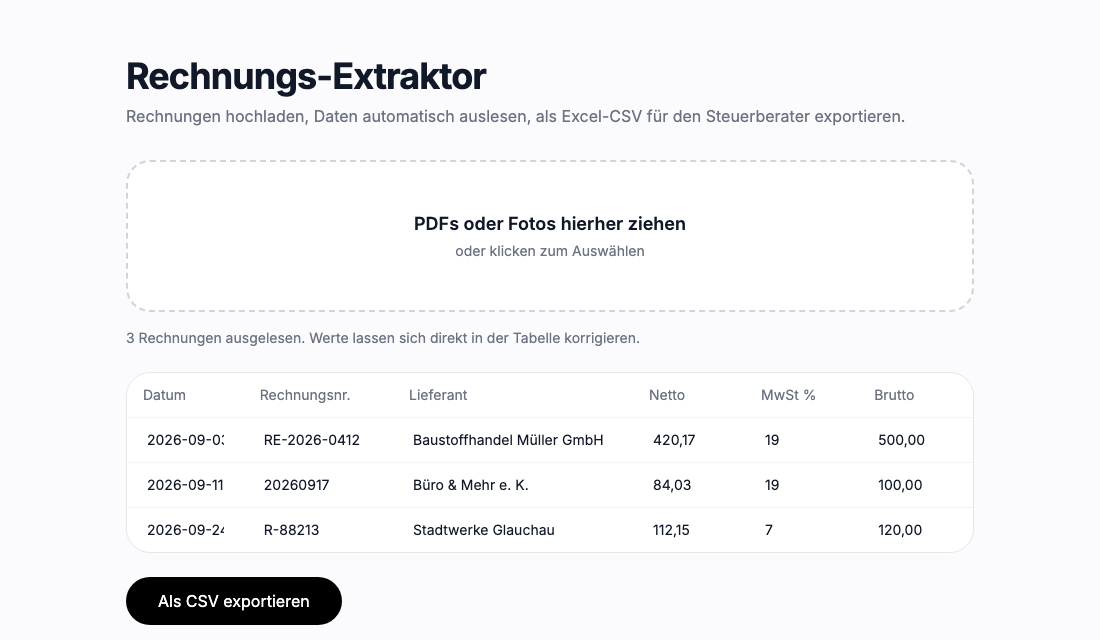
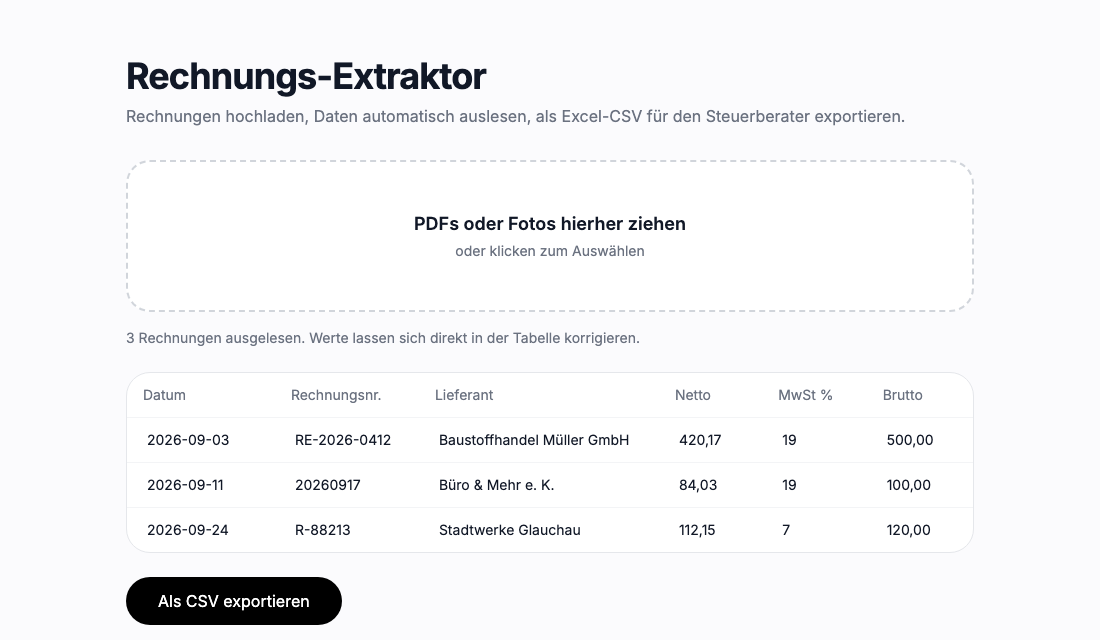
Add Rechnungs-Extraktor feature section to landing page

diff --git a/index.html b/index.html
@@ -19,6 +19,7 @@
             <span class="text-lg font-semibold tracking-tight">Patrick Heßmann</span>
             <div class="space-x-3 sm:space-x-6 text-sm font-medium text-gray-600">
                 <a href="#services" class="hover:text-black transition-colors">Leistungen</a>
+                <a href="#extraktor" class="hover:text-black transition-colors">Rechnungs-Extraktor</a>
                 <a href="#portfolio" class="hover:text-black transition-colors">Projekte</a>
                 <a href="#contact" class="bg-black text-white px-3 py-1 rounded-full hover:bg-gray-800 transition-all">Kontakt</a>
             </div>
@@ -72,6 +73,55 @@
         </div>
     </section>
 
+    <!-- Featured Product: Rechnungs-Extraktor -->
+    <section id="extraktor" class="py-24 bg-black text-white">
+        <div class="max-w-5xl mx-auto px-6">
+            <div class="text-center mb-14">
+                <span class="inline-block text-xs font-semibold uppercase tracking-widest text-gray-400 mb-4">Neu: Fertige Software</span>
+                <h2 class="text-4xl md:text-5xl font-bold tracking-tight mb-5">Schluss mit Belege abtippen.</h2>
+                <p class="text-xl text-gray-400 max-w-2xl mx-auto leading-relaxed">
+                    Der Rechnungs-Extraktor liest Rechnungen per KI aus und macht daraus eine fertige Excel-Liste für deinen Steuerberater.
+                </p>
+            </div>
+
+            <div class="rounded-3xl overflow-hidden border border-white/10 shadow-2xl shadow-white/5 mb-14">
+                <img src="assets/rechnungs-extraktor.png" alt="Rechnungs-Extraktor: ausgelesene Rechnungen als Tabelle mit Export-Button" loading="lazy" class="w-full h-auto">
+            </div>
+
+            <div class="grid md:grid-cols-3 gap-6 mb-14">
+                <div class="p-7 rounded-3xl bg-white/5 border border-white/10">
+                    <div class="text-sm font-semibold text-gray-400 mb-3">1</div>
+                    <h3 class="text-lg font-semibold mb-2">Hochladen</h3>
+                    <p class="text-gray-400 leading-relaxed">PDFs oder Fotos von Rechnungen ins Fenster ziehen, auch viele auf einmal.</p>
+                </div>
+                <div class="p-7 rounded-3xl bg-white/5 border border-white/10">
+                    <div class="text-sm font-semibold text-gray-400 mb-3">2</div>
+                    <h3 class="text-lg font-semibold mb-2">Prüfen</h3>
+                    <p class="text-gray-400 leading-relaxed">Datum, Lieferant, Netto, MwSt. und Brutto erscheinen in der Tabelle und lassen sich direkt korrigieren.</p>
+                </div>
+                <div class="p-7 rounded-3xl bg-white/5 border border-white/10">
+                    <div class="text-sm font-semibold text-gray-400 mb-3">3</div>
+                    <h3 class="text-lg font-semibold mb-2">Exportieren</h3>
+                    <p class="text-gray-400 leading-relaxed">Mit einem Klick als CSV speichern, die sich direkt im deutschen Excel öffnet.</p>
+                </div>
+            </div>
+
+            <ul class="grid sm:grid-cols-2 gap-x-10 gap-y-3 max-w-3xl mx-auto text-gray-300 mb-14">
+                <li class="flex gap-3"><span class="text-white">✓</span> Läuft als normale App auf Mac (Windows folgt)</li>
+                <li class="flex gap-3"><span class="text-white">✓</span> Kein Abo, keine Registrierung bei mir</li>
+                <li class="flex gap-3"><span class="text-white">✓</span> Eigener Key: du zahlst nur die tatsächlichen KI-Kosten</li>
+                <li class="flex gap-3"><span class="text-white">✓</span> Key liegt im Schlüsselbund deines Rechners</li>
+            </ul>
+
+            <div class="text-center">
+                <a href="https://wa.me/4915566901449?text=Hallo%20Patrick%2C%20ich%20interessiere%20mich%20f%C3%BCr%20den%20Rechnungs-Extraktor." class="inline-block bg-white text-black px-10 py-4 rounded-full text-lg font-medium hover:bg-gray-200 transition-all">
+                    Demo anfragen
+                </a>
+                <p class="text-sm text-gray-500 mt-5">Zur Auslese werden die Rechnungen an OpenAI gesendet. Details besprechen wir gern vorab.</p>
+            </div>
+        </div>
+    </section>
+
     <!-- Portfolio Section -->
     <section id="portfolio" class="py-24">
         <div class="max-w-5xl mx-auto px-6">
@@ -119,13 +169,6 @@
 
             <!-- Other Projects Grid -->
             <div class="grid md:grid-cols-2 gap-8">
-                <div class="group">
-                    <div class="aspect-video bg-gray-200 rounded-3xl overflow-hidden mb-4 border border-gray-100">
-                        <img src="assets/rechnungs-extraktor.png" alt="Rechnungs-Extraktor: ausgelesene Rechnungen als Tabelle" loading="lazy" class="w-full h-full object-cover object-top group-hover:scale-105 transition-transform duration-500">
-                    </div>
-                    <h4 class="text-lg font-semibold">Rechnungs-Extraktor</h4>
-                    <p class="text-gray-500 text-sm">Rechnungen als PDF oder Foto hochladen, KI liest die Daten aus, Export als Excel-CSV. Python / OpenAI API</p>
-                </div>
                 <div class="group cursor-pointer">
                     <div class="aspect-video bg-gray-200 rounded-3xl overflow-hidden mb-4 border border-gray-100">
                         <div class="w-full h-full bg-gradient-to-br from-gray-300 to-gray-400 group-hover:scale-105 transition-transform duration-500 flex items-center justify-center text-gray-500 italic">Projekt-Screenshot</div>
